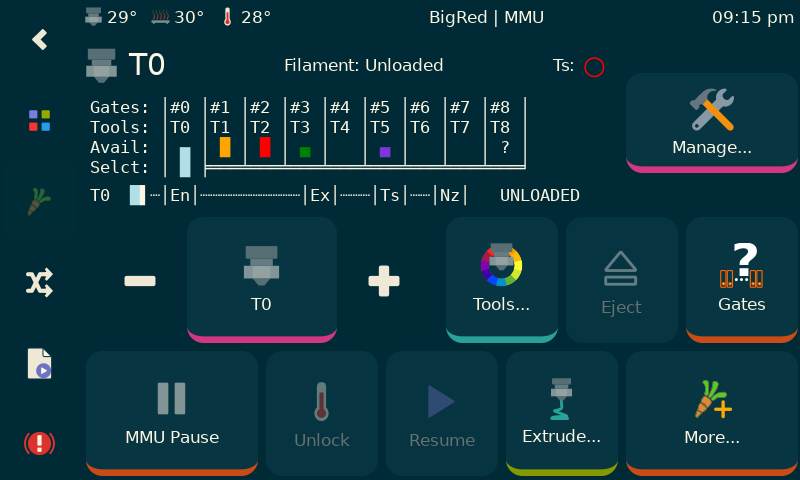
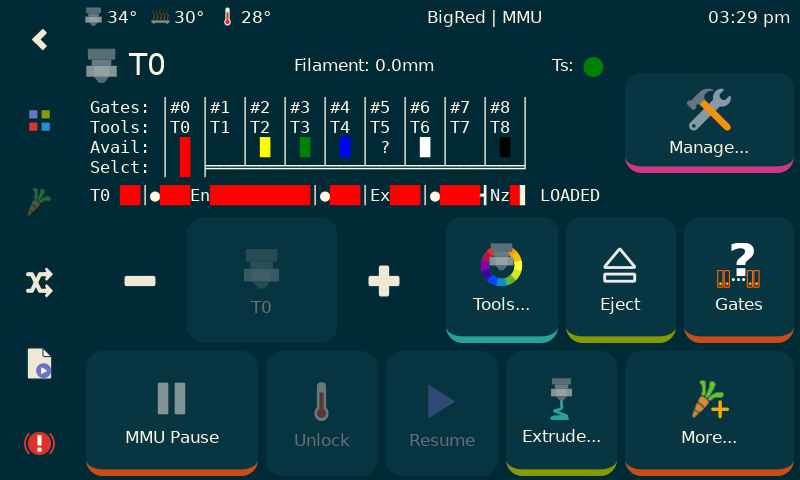
Updates for new sensor support

diff --git a/panels/mmu_main.py b/panels/mmu_main.py
@@ -12,8 +12,9 @@ from gi.repository import Gtk, Gdk, GLib, Pango
 from ks_includes.screen_panel import ScreenPanel
 
 class Panel(ScreenPanel):
-    TOOL_UNKNOWN = -1
-    TOOL_BYPASS = -2
+    # These are a subset of constants from main Happy Hare for convenience and coding consistency
+    TOOL_GATE_UNKNOWN = -1
+    TOOL_GATE_BYPASS = -2
 
     GATE_UNKNOWN = -1
     GATE_EMPTY = 0
@@ -22,17 +23,24 @@ class Panel(ScreenPanel):
 
     FILAMENT_POS_UNKNOWN = -1
     FILAMENT_POS_UNLOADED = 0
-    FILAMENT_POS_START_BOWDEN = 1
-    FILAMENT_POS_IN_BOWDEN = 2
-    FILAMENT_POS_END_BOWDEN = 3
-    FILAMENT_POS_HOMED_EXTRUDER = 4
-    FILAMENT_POS_EXTRUDER_ENTRY = 5
-    FILAMENT_POS_HOMED_TS = 6
-    FILAMENT_POS_IN_EXTRUDER = 7    # AKA FILAMENT_POS_PAST_TS
-    FILAMENT_POS_LOADED = 8         # AKA FILAMENT_POS_HOMED_NOZZLE
+    FILAMENT_POS_HOMED_GATE = 1
+    FILAMENT_POS_START_BOWDEN = 2
+    FILAMENT_POS_IN_BOWDEN = 3
+    FILAMENT_POS_END_BOWDEN = 4
+    FILAMENT_POS_HOMED_ENTRY = 5
+    FILAMENT_POS_HOMED_EXTRUDER = 6
+    FILAMENT_POS_EXTRUDER_ENTRY = 7
+    FILAMENT_POS_HOMED_TS = 8
+    FILAMENT_POS_IN_EXTRUDER = 9    # AKA FILAMENT_POS_PAST_TS
+    FILAMENT_POS_LOADED = 10        # AKA FILAMENT_POS_HOMED_NOZZLE
 
     DIRECTION_LOAD = 1
     DIRECTION_UNLOAD = -1
+
+    ENDSTOP_ENCODER  = "encoder"    # Fake Gate endstop
+    ENDSTOP_GATE     = "mmu_gate"   # Gate
+    ENDSTOP_EXTRUDER = "extruder"   # Extruder
+    ENDSTOP_TOOLHEAD = "toolhead"
 
     NOT_SET = -99
 
@@ -47,7 +55,7 @@ class Panel(ScreenPanel):
         self.min_tool = 0
         self.has_bypass = self._printer.get_stat("mmu")['has_bypass']
         if self.has_bypass:
-            self.min_tool = self.TOOL_BYPASS
+            self.min_tool = self.TOOL_GATE_BYPASS
 
         # btn_states: The "gaps" are what functionality the state takes away. Multiple states are combined
         self.btn_states = {
@@ -248,7 +256,7 @@ class Panel(ScreenPanel):
                     ee_data = data['mmu_encoder mmu_encoder']
                     self.update_encoder(ee_data)
 
-                if 'filament_switch_sensor toolhead_sensor' in data:
+                if 'filament_switch_sensor toolhead_sensor' in data or 'filament_switch_sensor mmu_gate_sensor' in data or 'filament_switch_sensor extruder_sensor' in data:
                     self.update_filament_status()
 
                 if 'mmu' in data:
@@ -282,7 +290,7 @@ class Panel(ScreenPanel):
 
     def init_tool_value(self):
         mmu = self._printer.get_stat("mmu")
-        if self.ui_sel_tool == self.NOT_SET and mmu['tool'] != self.TOOL_UNKNOWN:
+        if self.ui_sel_tool == self.NOT_SET and mmu['tool'] != self.TOOL_GATE_UNKNOWN:
             self.ui_sel_tool = mmu['tool']
         else:
             self.ui_sel_tool = 0
@@ -304,14 +312,14 @@ class Panel(ScreenPanel):
         tool = mmu['tool']
         if param < 0 and self.ui_sel_tool > self.min_tool:
             self.ui_sel_tool -= 1
-            if self.ui_sel_tool == self.TOOL_UNKNOWN:
-                self.ui_sel_tool = self.TOOL_BYPASS
+            if self.ui_sel_tool == self.TOOL_GATE_UNKNOWN:
+                self.ui_sel_tool = self.TOOL_GATE_BYPASS
         elif param > 0 and self.ui_sel_tool < num_gates - 1:
             self.ui_sel_tool += 1
-            if self.ui_sel_tool == self.TOOL_UNKNOWN:
+            if self.ui_sel_tool == self.TOOL_GATE_UNKNOWN:
                 self.ui_sel_tool = 0
         elif param == 0:
-            if self.ui_sel_tool == self.TOOL_BYPASS:
+            if self.ui_sel_tool == self.TOOL_GATE_BYPASS:
                 self._screen._ws.klippy.gcode_script(f"MMU_SELECT_BYPASS")
             elif self.ui_sel_tool != tool or mmu['filament'] != "Loaded":
                 self._screen._ws.klippy.gcode_script(f"MMU_CHANGE_TOOL TOOL={self.ui_sel_tool} QUIET=1")
@@ -325,7 +333,7 @@ class Panel(ScreenPanel):
         # This is a multipurpose button to select subpanel or load bypass
         mmu = self._printer.get_stat("mmu")
         tool = mmu['tool']
-        if self.ui_sel_tool == self.TOOL_BYPASS:
+        if self.ui_sel_tool == self.TOOL_GATE_BYPASS:
             self._screen._ws.klippy.gcode_script(f"MMU_LOAD EXTRUDER_ONLY=1")
         else:
             self._screen.show_panel('mmu_picker', 'MMU Tool Picker')
@@ -358,7 +366,7 @@ class Panel(ScreenPanel):
         next_tool = mmu['next_tool']
         last_tool = mmu['last_tool']
         sync_drive = mmu['sync_drive']
-        if next_tool != self.TOOL_UNKNOWN:
+        if next_tool != self.TOOL_GATE_UNKNOWN:
             # Change in progress
             text = ("T%d " % last_tool) if (last_tool >= 0 and last_tool != next_tool) else "Bypass " if last_tool == -2 else "Unknown " if last_tool == -1 else ""
             text += ("> T%d" % next_tool) if next_tool >= 0 else ""
@@ -369,7 +377,7 @@ class Panel(ScreenPanel):
             self.labels['tool_icon'].set_from_pixbuf(self.labels['sync_drive_pixbuf'])
         else:
             self.labels['tool_icon'].set_from_pixbuf(self.labels['tool_icon_pixbuf'])
-        if tool == self.TOOL_BYPASS:
+        if tool == self.TOOL_GATE_BYPASS:
             self.labels['picker'].set_image(self.labels['load_bypass_img'])
             self.labels['picker'].set_label(f"Load")
             self.labels['eject'].set_image(self.labels['unload_bypass_img'])
@@ -389,7 +397,7 @@ class Panel(ScreenPanel):
         action = mmu['action']
 
         # Set sensitivity of +/- buttons
-        if (tool == self.TOOL_BYPASS and filament == "Loaded") or not tool_sensitive:
+        if (tool == self.TOOL_GATE_BYPASS and filament == "Loaded") or not tool_sensitive:
             self.labels['t_decrease'].set_sensitive(False)
             self.labels['t_increase'].set_sensitive(False)
         else:
@@ -411,7 +419,7 @@ class Panel(ScreenPanel):
                     self.labels['tool'].set_sensitive(False)
                 else:
                     self.labels['tool'].set_sensitive(tool_sensitive)
-            elif self.ui_sel_tool == self.TOOL_BYPASS:
+            elif self.ui_sel_tool == self.TOOL_GATE_BYPASS:
                 self.labels['tool'].set_label(f"Bypass")
                 self.labels['tool'].set_sensitive(tool_sensitive)
             else:
@@ -421,7 +429,7 @@ class Panel(ScreenPanel):
             self.labels['tool'].set_label(action)
             self.labels['tool'].set_sensitive(False)
 
-        if self.ui_sel_tool == self.TOOL_BYPASS:
+        if self.ui_sel_tool == self.TOOL_GATE_BYPASS:
             self.labels['tool'].set_image(self.labels['select_bypass_img'])
         else:
             self.labels['tool'].set_image(self.labels['tool_img'])
@@ -478,12 +486,13 @@ class Panel(ScreenPanel):
         else:
             self.labels['status5'].set_label(self.get_filament_text(bold=self.bold_filament))
 
-        if self.check_toolhead_sensor() != None:
-            if self.check_toolhead_sensor() == 1:
+        ts = self._check_sensor(self.ENDSTOP_TOOLHEAD)
+        if ts != None:
+            if ts == 1:
                 self.labels['sensor'].get_style_context().remove_class("mmu_disabled_text")
                 self.labels['sensor_state'].set_label("●  ")
                 c_name = "green"
-            elif self.check_toolhead_sensor() == 0:
+            elif ts == 0:
                 self.labels['sensor'].get_style_context().remove_class("mmu_disabled_text")
                 self.labels['sensor_state'].set_label("○  ")
                 c_name = "red"
@@ -525,7 +534,7 @@ class Panel(ScreenPanel):
                 self._screen.clear_last_popup_message()
             else:
                 ui_state.append("idle")
-            if tool == self.TOOL_BYPASS:
+            if tool == self.TOOL_GATE_BYPASS:
                 if filament == "Loaded":
                     ui_state.append("bypass_loaded")
                 elif filament == "Unloaded":
@@ -628,71 +637,95 @@ class Panel(ScreenPanel):
         tool = mmu['tool']
         filament_pos = mmu['filament_pos']
         filament_direction = mmu['filament_direction']
+        gate_color = mmu['gate_color']
+        cs = self._printer.get_config_section("mmu")
+        gate_homing_endstop = cs['gate_homing_endstop']
 
-        if filament_pos == self.FILAMENT_POS_LOADED:
-            move_str = "LOADED"
-        elif filament_pos == self.FILAMENT_POS_UNLOADED:
-            move_str = "UNLOADED"
-        elif filament_pos == self.FILAMENT_POS_UNKNOWN:
-            move_str = "UNKNOWN"
-        elif filament_direction == self.DIRECTION_LOAD:
-            move_str = " ▷▷▷"
-        elif filament_direction == self.DIRECTION_UNLOAD:
-            move_str = " ◁◁◁"
-        else:
-            move_str = ""
-        tool_str = (f"T{tool} ")[:3] if tool >=0 else "T? "
-        sensor_str = "│Ts│" if (self.check_toolhead_sensor() != None and self.check_toolhead_sensor() != -1) else ""
-        sensor_str_homed = "┫Ts│" if self.check_toolhead_sensor() != None else ""
-        if tool == self.TOOL_BYPASS and filament_pos == self.FILAMENT_POS_LOADED:
-            visual = "BYPASS ^━━━$│En│^━━━━━━━━━━━━━━━━━━$│Nz│^━$▶ %s" % (move_str)
-        elif tool == self.TOOL_BYPASS:
-            visual = "BYPASS ^━$▶┈│En│┈┈┈┈┈┈┈┈┈┈┈┈┈┈┈┈┈┈│Nz│   %s" % (move_str)
-        elif filament_pos == self.FILAMENT_POS_UNKNOWN:
-            visual     = "%s ┈┈┈│En│┈┈┈┈┈┈┈┈┈┈│Ex│┈┈┈%s┈┈│Nz│   %s" % (tool_str, sensor_str, move_str)
-        elif filament_pos == self.FILAMENT_POS_UNLOADED:
-            visual     = "%s ^━$▶┈│En│┈┈┈┈┈┈┈┈┈┈│Ex│┈┈┈%s┈┈│Nz│   %s" % (tool_str, sensor_str, move_str)
-        elif filament_pos == self.FILAMENT_POS_START_BOWDEN:
-            visual     = "%s ^━━━$│En│^━$▶┈┈┈┈┈┈┈┈│Ex│┈┈┈%s┈┈│Nz│   %s" % (tool_str, sensor_str, move_str)
-        elif filament_pos == self.FILAMENT_POS_IN_BOWDEN:
-            visual     = "%s ^━━━$│En│^━━━━$▶┈┈┈┈┈│Ex│┈┈┈%s┈┈│Nz│   %s" % (tool_str, sensor_str, move_str)
-        elif filament_pos == self.FILAMENT_POS_END_BOWDEN:
-            visual     = "%s ^━━━$│En│^━━━━━━━━$▶┈│Ex│┈┈┈%s┈┈│Nz│   %s" % (tool_str, sensor_str, move_str)
-        elif filament_pos == self.FILAMENT_POS_HOMED_EXTRUDER:
-            visual     = "%s ^━━━$│En│^━━━━━━━━━$▶┫Ex│┈┈┈%s┈┈│Nz│   %s" % (tool_str, sensor_str, move_str)
-        elif filament_pos == self.FILAMENT_POS_EXTRUDER_ENTRY:
-            visual     = "%s ^━━━$│En│^━━━━━━━━━━$│Ex│^━$▶┈%s┈┈│Nz│   %s" % (tool_str, sensor_str_homed, move_str)
-        elif filament_pos == self.FILAMENT_POS_HOMED_TS:
-            visual     = "%s ^━━━$│En│^━━━━━━━━━━$│Ex│^━━$▶%s┈┈│Nz│   %s" % (tool_str, sensor_str_homed, move_str)
-        elif filament_pos == self.FILAMENT_POS_IN_EXTRUDER:
-            visual     = "%s ^━━━$│En│^━━━━━━━━━━$│Ex│^━━━$%s▶┈│Nz│   %s" % (tool_str, sensor_str, move_str)
-        elif filament_pos == self.FILAMENT_POS_LOADED:
-            visual     = "%s ^━━━$│En│^━━━━━━━━━━$│Ex│^━━━$%s^━━$│Nz│^━$▶ %s" % (tool_str, sensor_str, move_str)
+        arrow = "▶"
+        line = "━"
+        space = "┈"
+        home  = "┫"
+        gate  = "│"
+        gs = es = ts = '○'
+        past  = lambda pos: arrow if filament_pos >= pos else space
+        homed = lambda pos: (gate,arrow) if filament_pos > pos else (home,space) if filament_pos == pos else (gate,space)
+        nozz  = lambda pos: (arrow,home,arrow) if filament_pos == pos else (space,gate,' ')
+        trig  = lambda name, sensor: re.sub(r'[a-zA-Z○]', '●', name) if self._check_sensor(sensor) else name
+        bseg = 4 + 2 * sum(not self._has_sensor(sensor) for sensor in [self.ENDSTOP_ENCODER, self.ENDSTOP_GATE, self.ENDSTOP_EXTRUDER, self.ENDSTOP_TOOLHEAD]) - (tool == self.TOOL_GATE_BYPASS)
 
-        #if filament_direction == self.DIRECTION_UNLOAD and filament_pos != self.FILAMENT_POS_UNLOADED:
-        #    visual = visual.replace("▶", "◀")
+        t_str   = ("T%s " % str(tool))[:3] if tool >= 0 else "BYPASS " if tool == self.TOOL_GATE_BYPASS else "T? "
+        g_str   = "{0}{0}".format(past(self.FILAMENT_POS_UNLOADED))
+        gs_str  = "{0}{2}{1}{1}{1}".format(*homed(self.FILAMENT_POS_HOMED_GATE), trig(gs, self.ENDSTOP_GATE)) if self._has_sensor(self.ENDSTOP_GATE) else ""
+        en_str  = "En{0}{0}".format(past(self.FILAMENT_POS_IN_BOWDEN if gate_homing_endstop == self.ENDSTOP_GATE else self.FILAMENT_POS_START_BOWDEN)) if self._has_sensor(self.ENDSTOP_ENCODER) else ""
+        bowden1 = "{0}".format(past(self.FILAMENT_POS_IN_BOWDEN)) * bseg
+        bowden2 = "{0}".format(past(self.FILAMENT_POS_END_BOWDEN)) * bseg
+        es_str  = "{0}{2}{1}{1}{1}".format(*homed(self.FILAMENT_POS_HOMED_ENTRY), trig(es, self.ENDSTOP_EXTRUDER)) if self._has_sensor(self.ENDSTOP_EXTRUDER) else ""
+        ex_str  = "{0}{2}{1}{1}{1}".format(*homed(self.FILAMENT_POS_HOMED_EXTRUDER), "Ex")
+        ts_str  = "{0}{2}{1}{1}{1}".format(*homed(self.FILAMENT_POS_HOMED_TS), trig(ts, self.ENDSTOP_TOOLHEAD)) if self._has_sensor(self.ENDSTOP_TOOLHEAD) else ""
+        nz_str  = "{0}{1}Nz{2}{2}".format(*nozz(self.FILAMENT_POS_LOADED))
+        summary = " LOADED" if filament_pos == self.FILAMENT_POS_LOADED else " UNLOADED" if filament_pos == self.FILAMENT_POS_UNLOADED else " UNKNOWN" if filament_pos == self.FILAMENT_POS_UNKNOWN else " ▷▷▷" if filament_direction == self.DIRECTION_LOAD else " ◁◁◁" if filament_direction == self.DIRECTION_UNLOAD else ""
+
+        visual = "".join((t_str, g_str, gs_str, en_str, bowden1, bowden2, es_str, ex_str, ts_str, nz_str, summary))
+
+        last_index = visual.rfind("▶")
+        visual = visual.replace("▶", "━")
+        if last_index != -1:
+                visual = visual[:last_index] + "▶" + visual[last_index + 1:]
+
+        if markup:
+            if mmu['gate'] >= 0:
+                color = self.get_rgb_color(gate_color[mmu['gate']])
+                if color != "":
+                    visual = self._add_markup(visual, color)
+
         if bold:
             visual = visual.replace("━", "█").replace("▶", "▌")
-        if markup:
-            gate_color = mmu['gate_color']
-            gate = mmu['gate']
-            if gate >= 0:
-                color = self.get_rgb_color(gate_color[gate])
-                if color != "":
-                    visual = visual.replace("^", (f"<span color='{color}'>")).replace("$", "</span>")
-                    return visual
-        visual = visual.replace("^", "").replace("$", "")
+
         return visual
 
-    def check_toolhead_sensor(self):
-        sensor = self._printer.get_stat("filament_switch_sensor toolhead_sensor")
-        if sensor == {}:
-            return None
-        if sensor['enabled']:
-            if sensor['filament_detected']:
-                return 1
+    def _add_markup(self, string, color):
+        result = ""
+        in_sequence = False
+        for i, char in enumerate(string):
+            if char == "━":
+                if not in_sequence:
+                    #result += "s"
+                    result += f"<span color='{color}'>"
+                    in_sequence = True
+                if i + 1 == len(string) or string[i + 1] != "━":
+                    #result += char + "e"
+                    result += char + f"</span>"
+                    in_sequence = False
+                else:
+                    result += char
             else:
-                return 0
-        else:
+                result += char
+        return result
+
+    def _check_sensor(self, s):
+        if s == self.ENDSTOP_ENCODER:
+            encoder = self._printer.get_stat('mmu_encoder mmu_encoder', None)
+            if encoder:
+                return True
+            else:
+                return None
+
+        sensor = self._printer.get_stat(f"filament_switch_sensor {s}_sensor")
+        if sensor:
+            if sensor['enabled']:
+                if sensor['filament_detected']:
+                    return 1
+                else:
+                    return 0
             return -1
+        return None
+
+    def _has_sensor(self, s):
+        if s == self.ENDSTOP_ENCODER:
+            return self._printer.get_stat('mmu_encoder mmu_encoder', None)
+
+        sensor = self._printer.get_stat(f"filament_switch_sensor {s}_sensor")
+        if sensor:
+            return sensor['enabled']
+        return False
 
